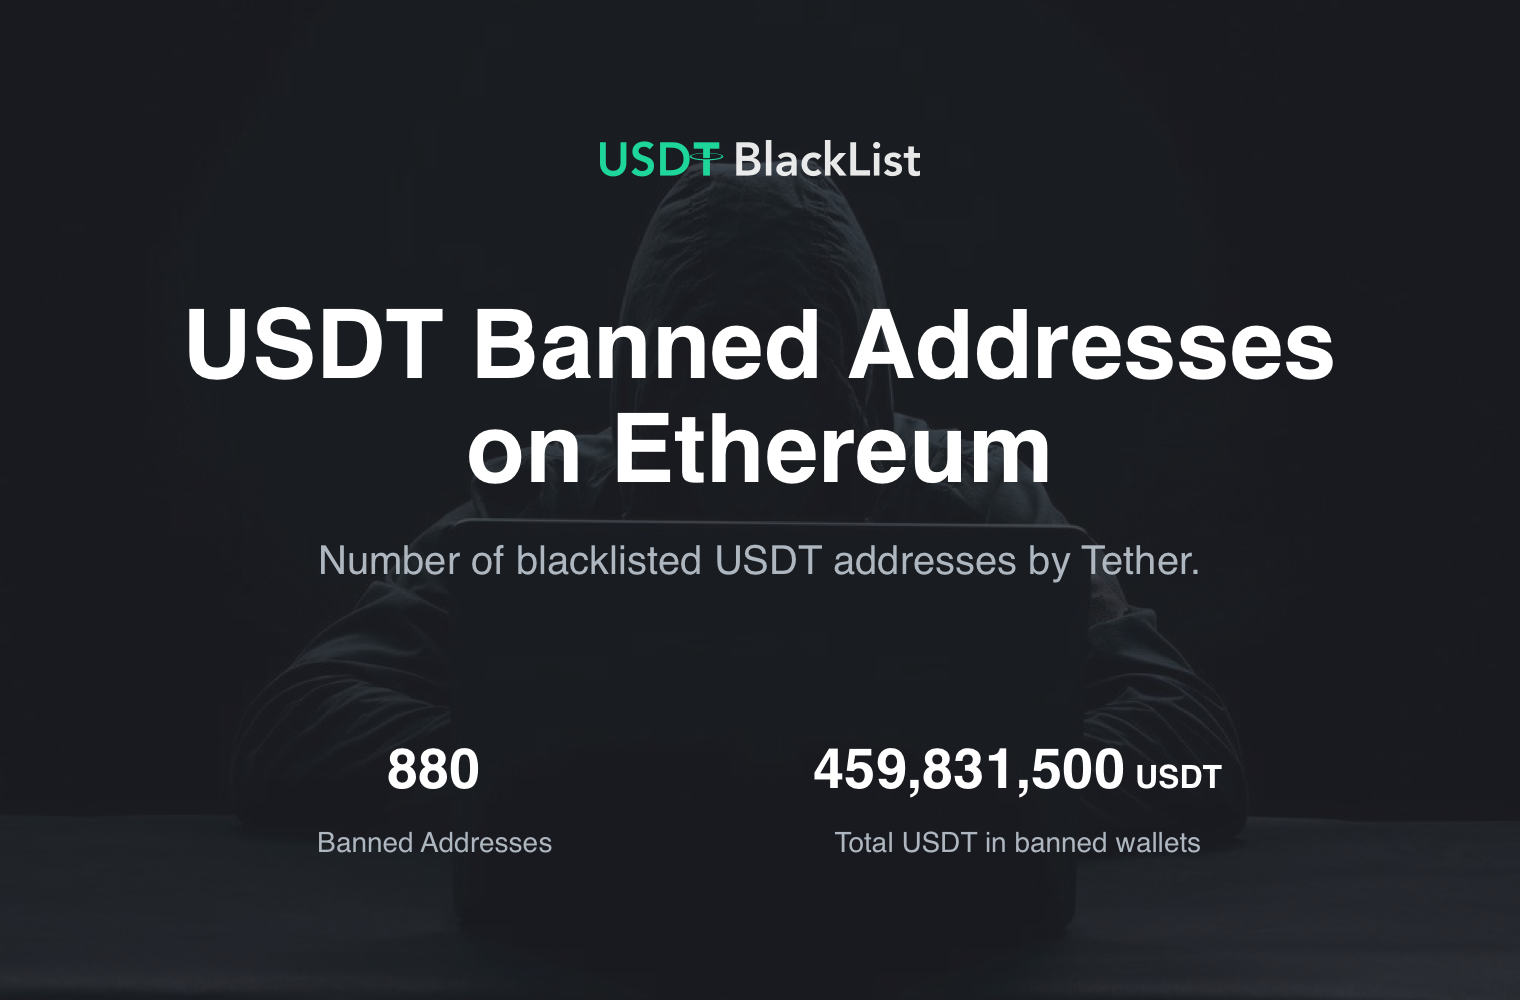
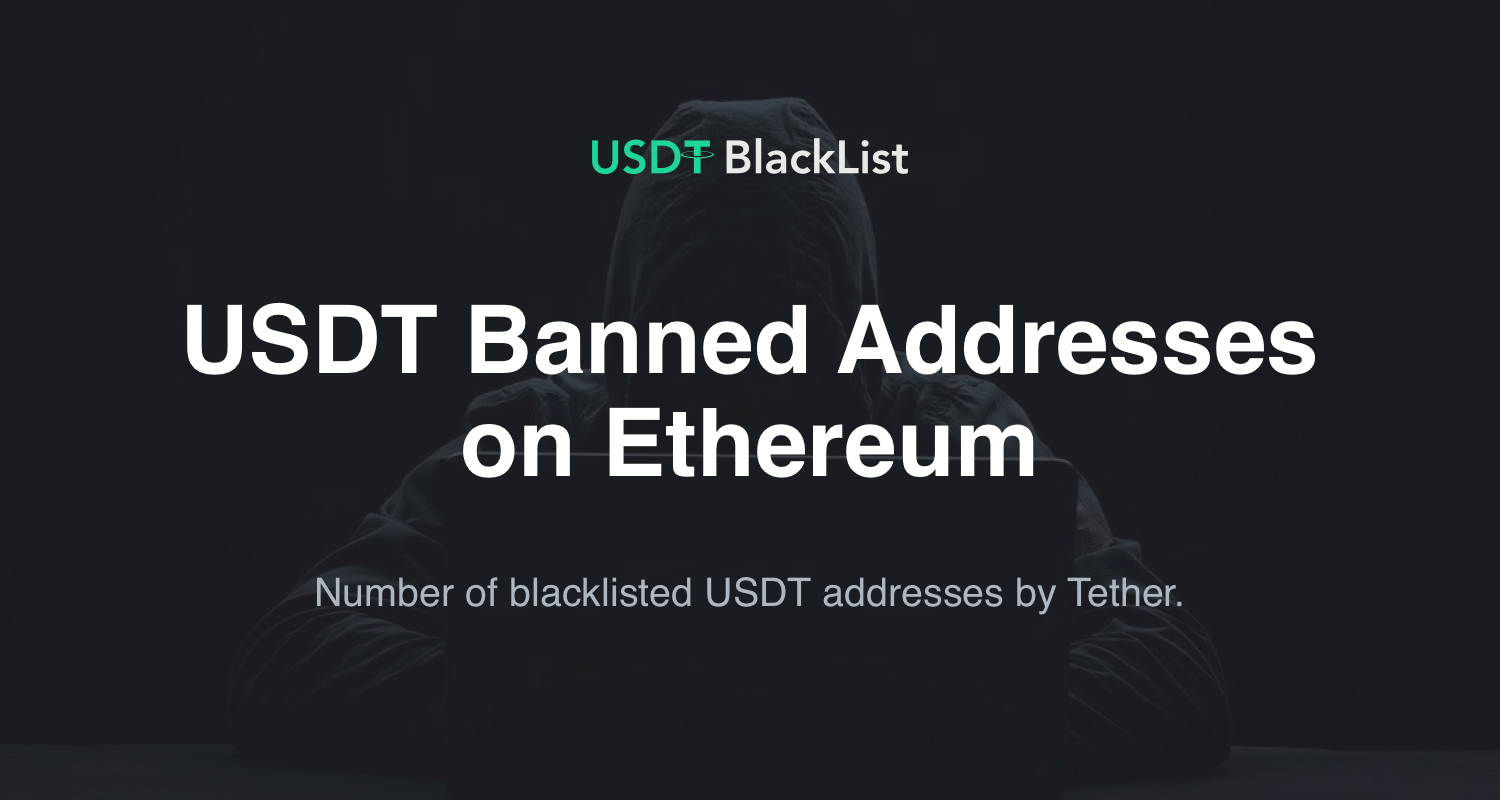
update data

diff --git a/README.md b/README.md
@@ -1,15 +1,10 @@
-![image](https://raw.githubusercontent.com/USDTBlackList/USDT-Banned-Addresses-on-Ethereum/main/USDT-Banned-Addresses-on-Ethereum.png)
+![image](https://raw.githubusercontent.com/USDTBlackList/USDT-Banned-Addresses-on-Ethereum/main/USDT-Banned-Addresses-on-Ethereum.png?1747)
 
 # USDT Banned Addresses on Ethereum
 
 > Number of blacklisted USDT addresses by Tether.
-
-
-
-### Statistics
-
-* Banned Addresses: **880**
-* Total USDT in banned wallets: **459,831,500 USDT**
+>
+> https://www.usdtblacklist.com/topic/Blocked
 
 
 
